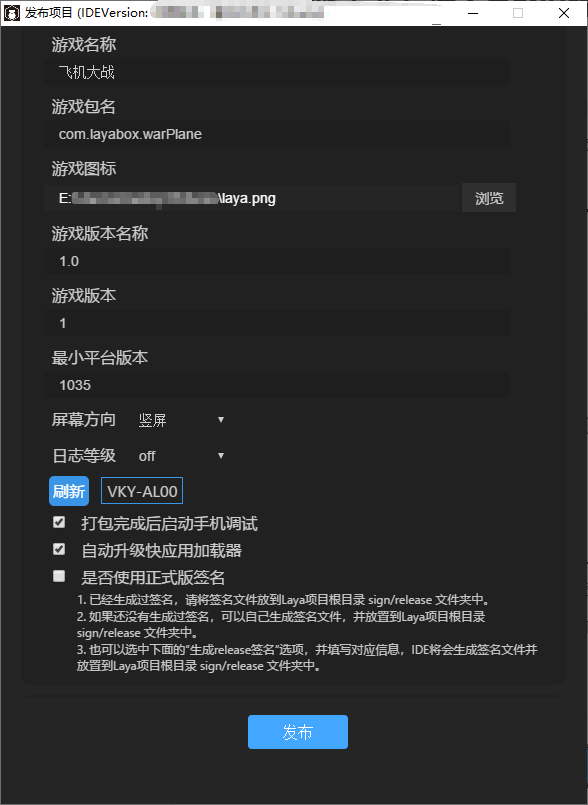
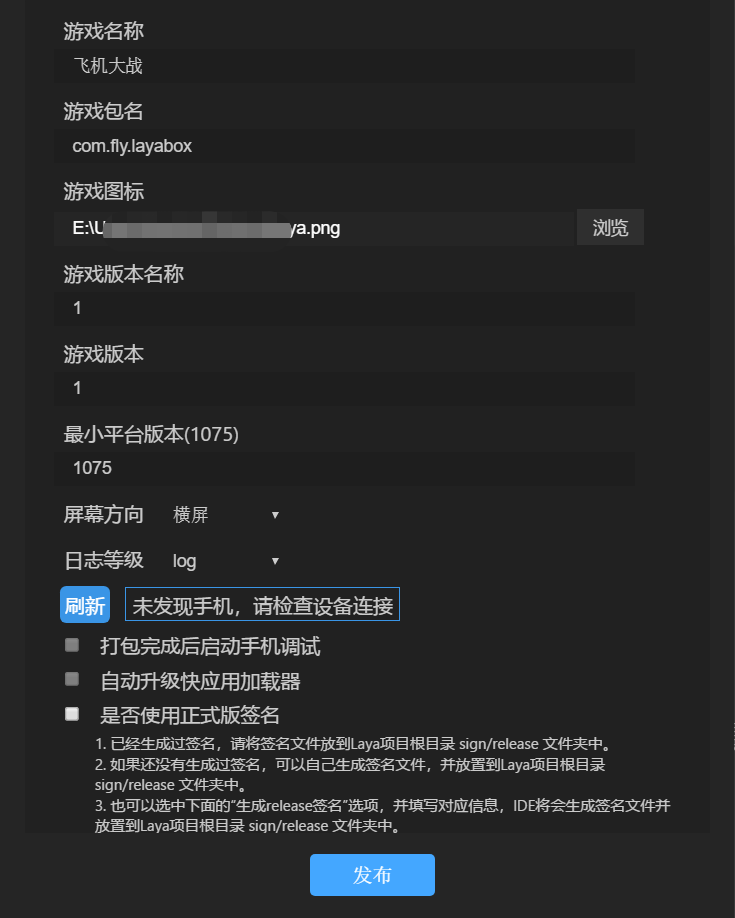
update

Changed region(s): [[0.0, 0.0, 1.0, 1.0], [0.7959, 0.2174, 0.8571, 0.2795]]

diff --git a/LayaAir2.0/Chinese/miniGame/huawei/readme.md b/LayaAir2.0/Chinese/miniGame/huawei/readme.md
@@ -75,11 +75,11 @@
 
 ### 2、在LayaAirIDE里发布华为快游戏
 
-LayaAirIDE的发布功能，内置了华为快游戏的发布功能，需要先将LayaAir引擎的项目，通过发布功能打成.rpk后缀的包。发布功能的发布平台，选择`华为快游戏`，最小平台版本当前选择1035（如有改变可以关注官方文档）。
+LayaAirIDE的发布功能，内置了华为快游戏的发布功能，需要先将LayaAir引擎的项目，通过发布功能打成.rpk后缀的包。发布功能的发布平台，选择`华为快游戏`，最小平台版本当前选择1075（如有改变可以关注官方文档）。
 
 在下图中，刷新那里，如果没连手机，显示`未发现手机，请检查设备连接`，如果连上了会识别出手机型号（华为识别出的手机型号可能与手机销售型号不符，只要能显示出来，就说明连上了）
 
-![img](img/3.png) 
+![img](img/3.png)  
 
 关于发布功能的使用。由于有专门的发布功能介绍文档，这里不重复介绍了。不会的可以前往官网文档查看。
 
